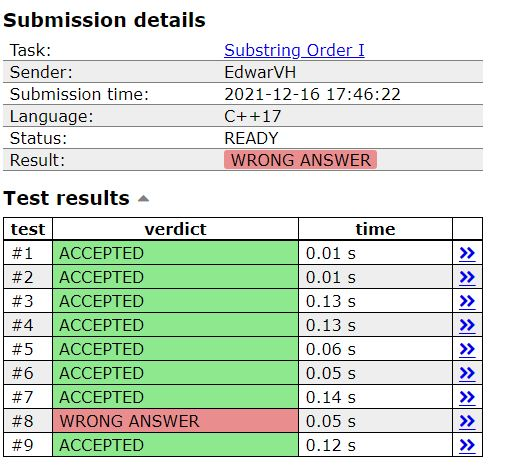
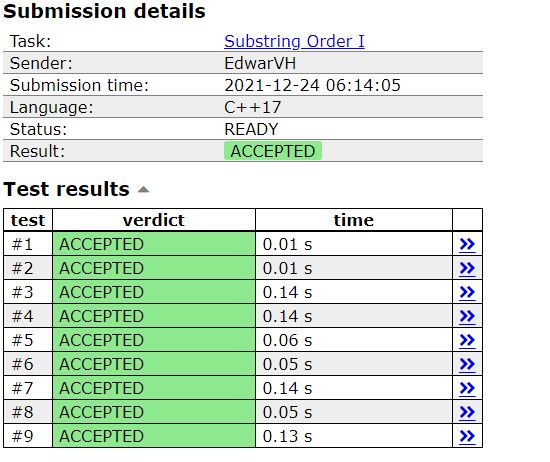
subiendo archivos faltantes aula22, aula23 y aula24

diff --git a/TerceraUnidad/Aula23/SubStringOrderI.cpp b/TerceraUnidad/Aula23/SubStringOrderI.cpp
@@ -5,65 +5,71 @@ https://cses.fi/problemset/task/2108
 
 #include<bits/stdc++.h>
 using namespace std;
-
  
-const int maxNum = 1e5+5;
-
-int matrix[maxNum], posicion[maxNum], temporal[maxNum], lcp[maxNum];
+#define int long long
+#define endl '\n'
+ 
+const int tamañoMaximo = 1e5+5;
+int sa[tamañoMaximo], pos[tamañoMaximo], tmp[tamañoMaximo], lcp[tamañoMaximo];
 int gap, N;
-string S;
+
  
-bool compara(int x, int y) {
-    if (posicion[x] != posicion[y])
-        return posicion[x] < posicion[y];
+bool comparar(int x, int y) {
+    if (pos[x] != pos[y])
+        return pos[x] < pos[y];
     x += gap;
     y += gap;
-    return (x < N && y < N) ? posicion[x] < posicion[y] : x > y;
+    return (x < N && y < N) ? pos[x] < pos[y] : x > y;
+}
+ 
+void suffix(string S) {
+    for (int i = 0; i < N; i++)
+        sa[i] = i, pos[i] = S[i];
+ 
+    for (gap = 1;; gap <<= 1) {
+        sort(sa, sa+N, comparar);
+        for (int i = 0; i < N-1; i++)
+            tmp[i+1] = tmp[i] + comparar(sa[i], sa[i+1]);
+        for (int i = 0; i < N; i++)
+            pos[sa[i]] = tmp[i];
+        if (tmp[N - 1] == N - 1)
+            break;
+    }
+}
+ 
+void construir_lcp(string S) {
+    for (int i = 0, k = 0; i < N; i++) 
+        if (pos[i] != N-1) {
+            int j = sa[pos[i] + 1];
+            while (S[i + k] == S[j + k])
+                k++;
+            lcp[pos[i]] = k;
+            if (k) k--;
+        }
 }
  
 signed main(){
-    
+ 
+    string S;
     cin>>S; 
     N = S.size();
-    for (int i = 0; i < N; i++)
-        matrix[i] = i, posicion[i] = S[i];
- 
-    for (gap = 1;; gap <<= 1) {
-        sort(matrix, matrix+N, compara);
-        for (int i = 0; i < N-1; i++)
-            temporal[i+1] = temporal[i] + compara(matrix[i], matrix[i+1]);
-        for (int i = 0; i < N; i++)
-            posicion[matrix[i]] = temporal[i];
-        if (temporal[N - 1] == N - 1)
-            break;
-    }
-    
-    for (int i = 0, k = 0; i < N; i++) 
-    if (posicion[i] != N-1) {
-        int j = matrix[posicion[i] + 1];
-        while (S[i + k] == S[j + k])
-            k++;
-        lcp[posicion[i]] = k;
-        if (k) k--;
-    }
-
-    
-    int k; 
-    cin>>k;
+    suffix(S);
+    construir_lcp(S);
+    int k; cin>>k;
     int prev = 0;
     int cur = 0;
     for (int i = 0; i < N; i++) {
-        if (cur + (N-matrix[i]) - prev >= k) {
+        if (cur + (N-sa[i]) - prev >= k) {
             int j = prev;
-            string ans = S.substr(matrix[i], j);
+            string ans = S.substr(sa[i], j);
             while (cur < k) {
-                ans += S[matrix[i]+j];
+                ans += S[sa[i]+j];
                 cur++;
                 j++;
             }
             return cout << ans, 0;
         }
-        cur += (N-matrix[i]) - prev;
+        cur += (N-sa[i]) - prev;
         prev = lcp[i];
     }
 }

diff --git a/TerceraUnidad/Aula24/ThreePowers.cpp b/TerceraUnidad/Aula24/ThreePowers.cpp
@@ -2,30 +2,27 @@
  */
 #include <bits/stdc++.h>
 using namespace std;
-
-
-
 void solve(int n){
-    vector<long long int> v;
 
-    long long int curr=1;
-    while(n>0)
-    {
-        if(n%2==1)
-            v.push_back(curr);
-        curr*=3;
-        n/=2;
+    int shifts = 0;
+    int elements = 0;
+    cout << "{" ;
+    while(n>0){
+        if(n&1 == 1){
+            if(elements == 0){
+                cout << pow(3,shifts) << " ";
+            }
+            else{
+                cout << ", " << pow(3,shifts) << " ";
+            }
+            elements++;
+        }
+        n >>=1;
+        shifts++;
     }
-    printf("{ ");
-    for(int i=0 ; i<v.size(); i++)
-    {
-        printf("%d",v[i]);
-        if(i!=v.size()-1)
-            printf(", ");
-        printf(" ");
+    cout << "}";
 
-    }
-    printf("}\n");
+
 }
 
 int main(){
